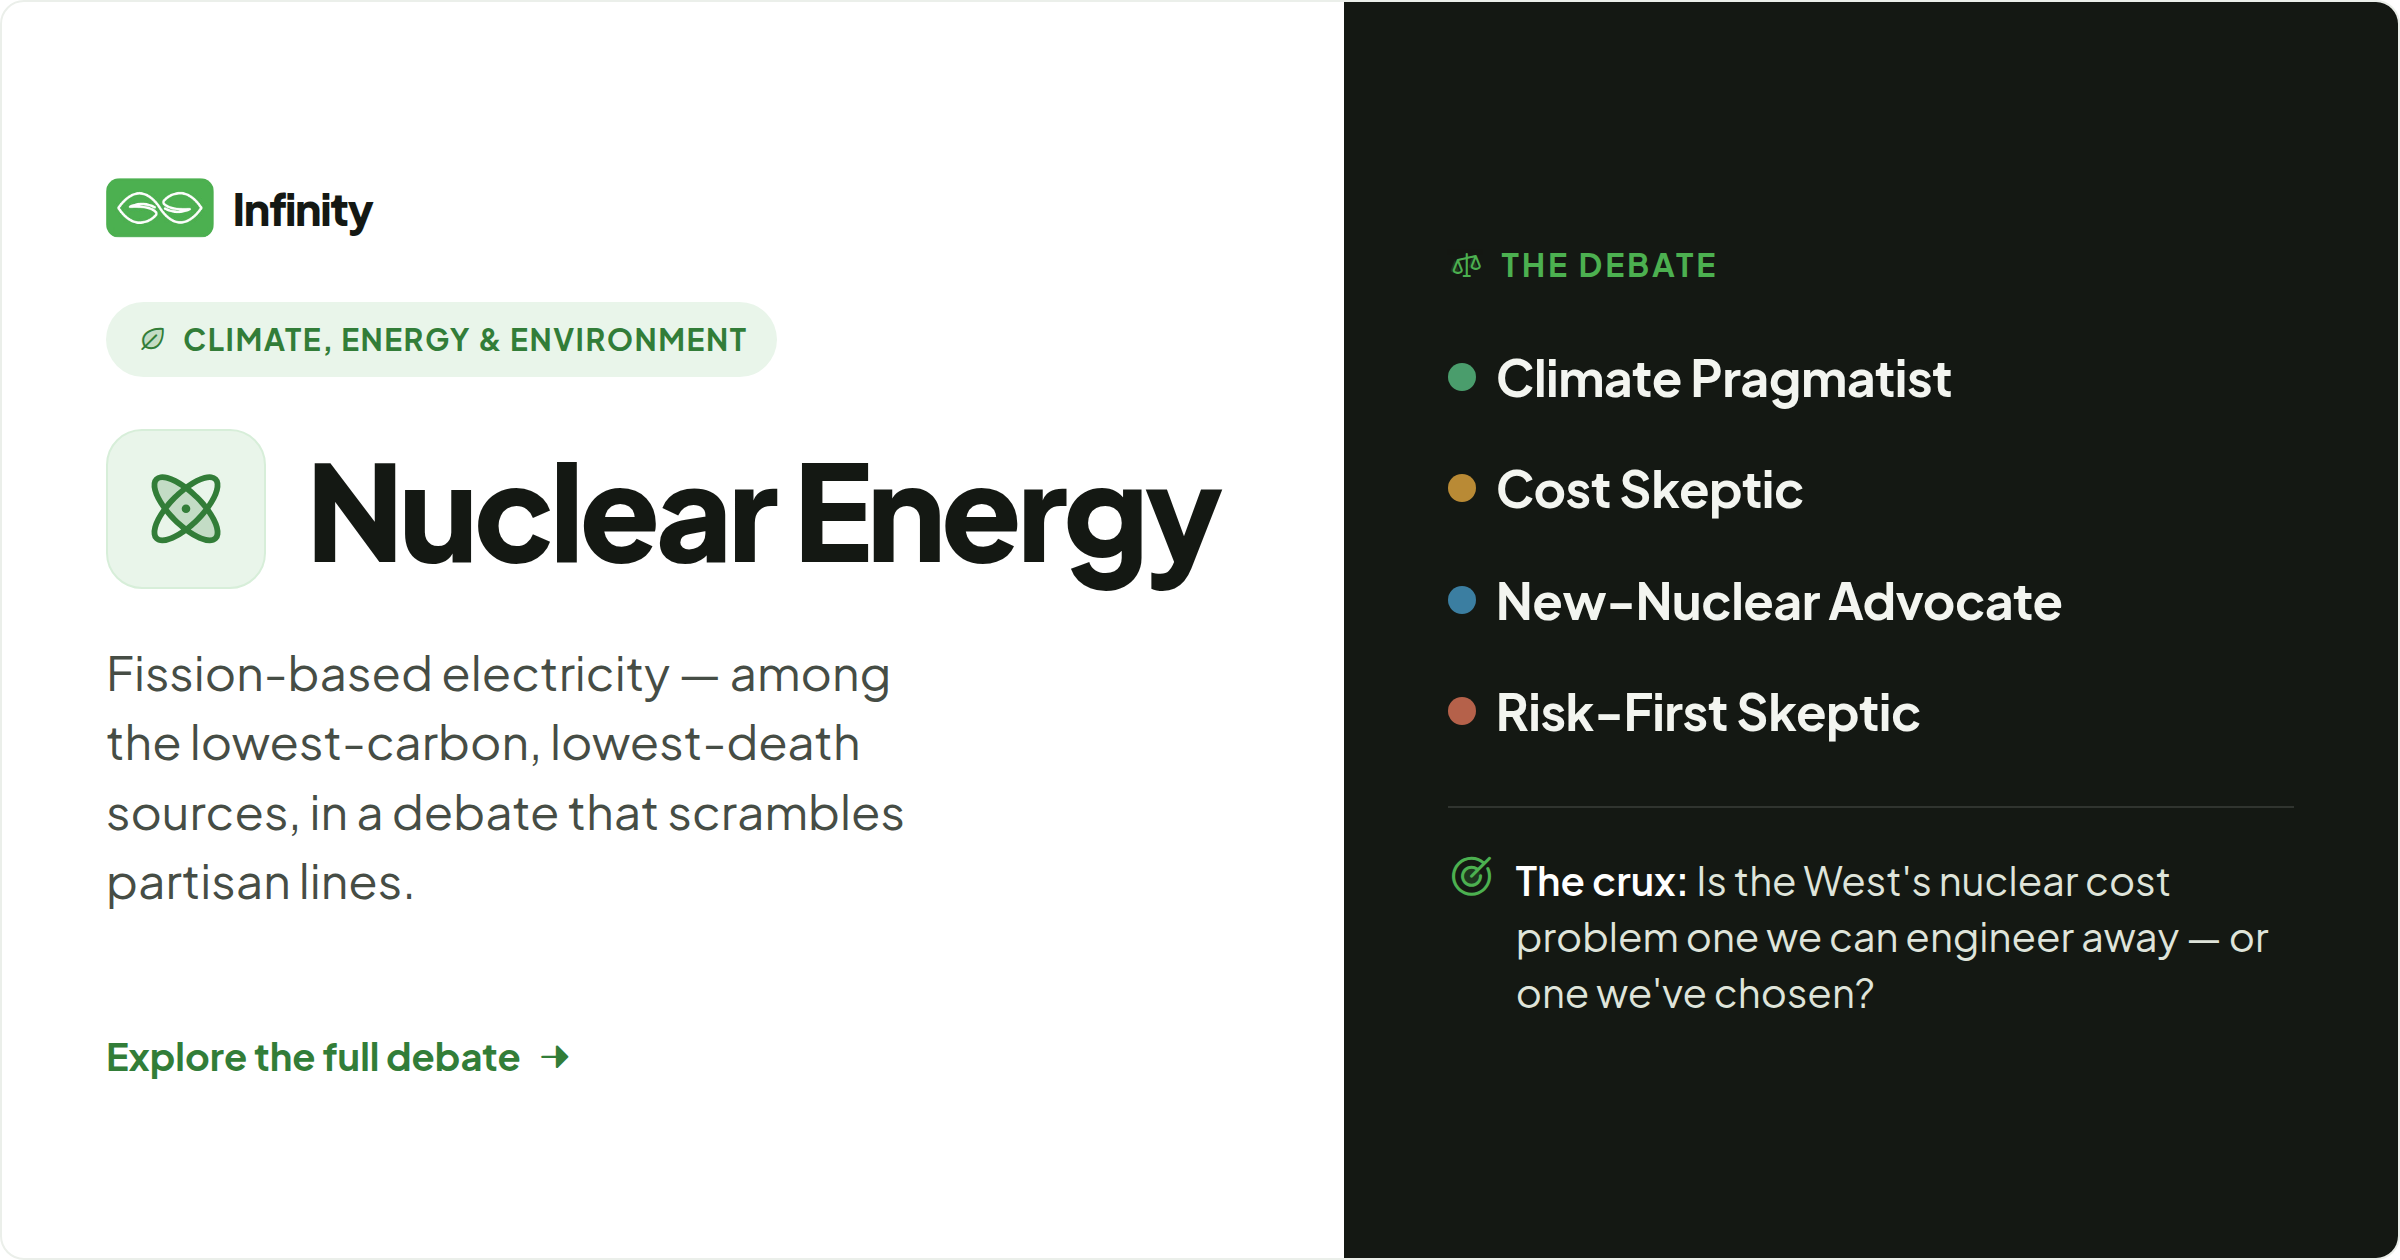
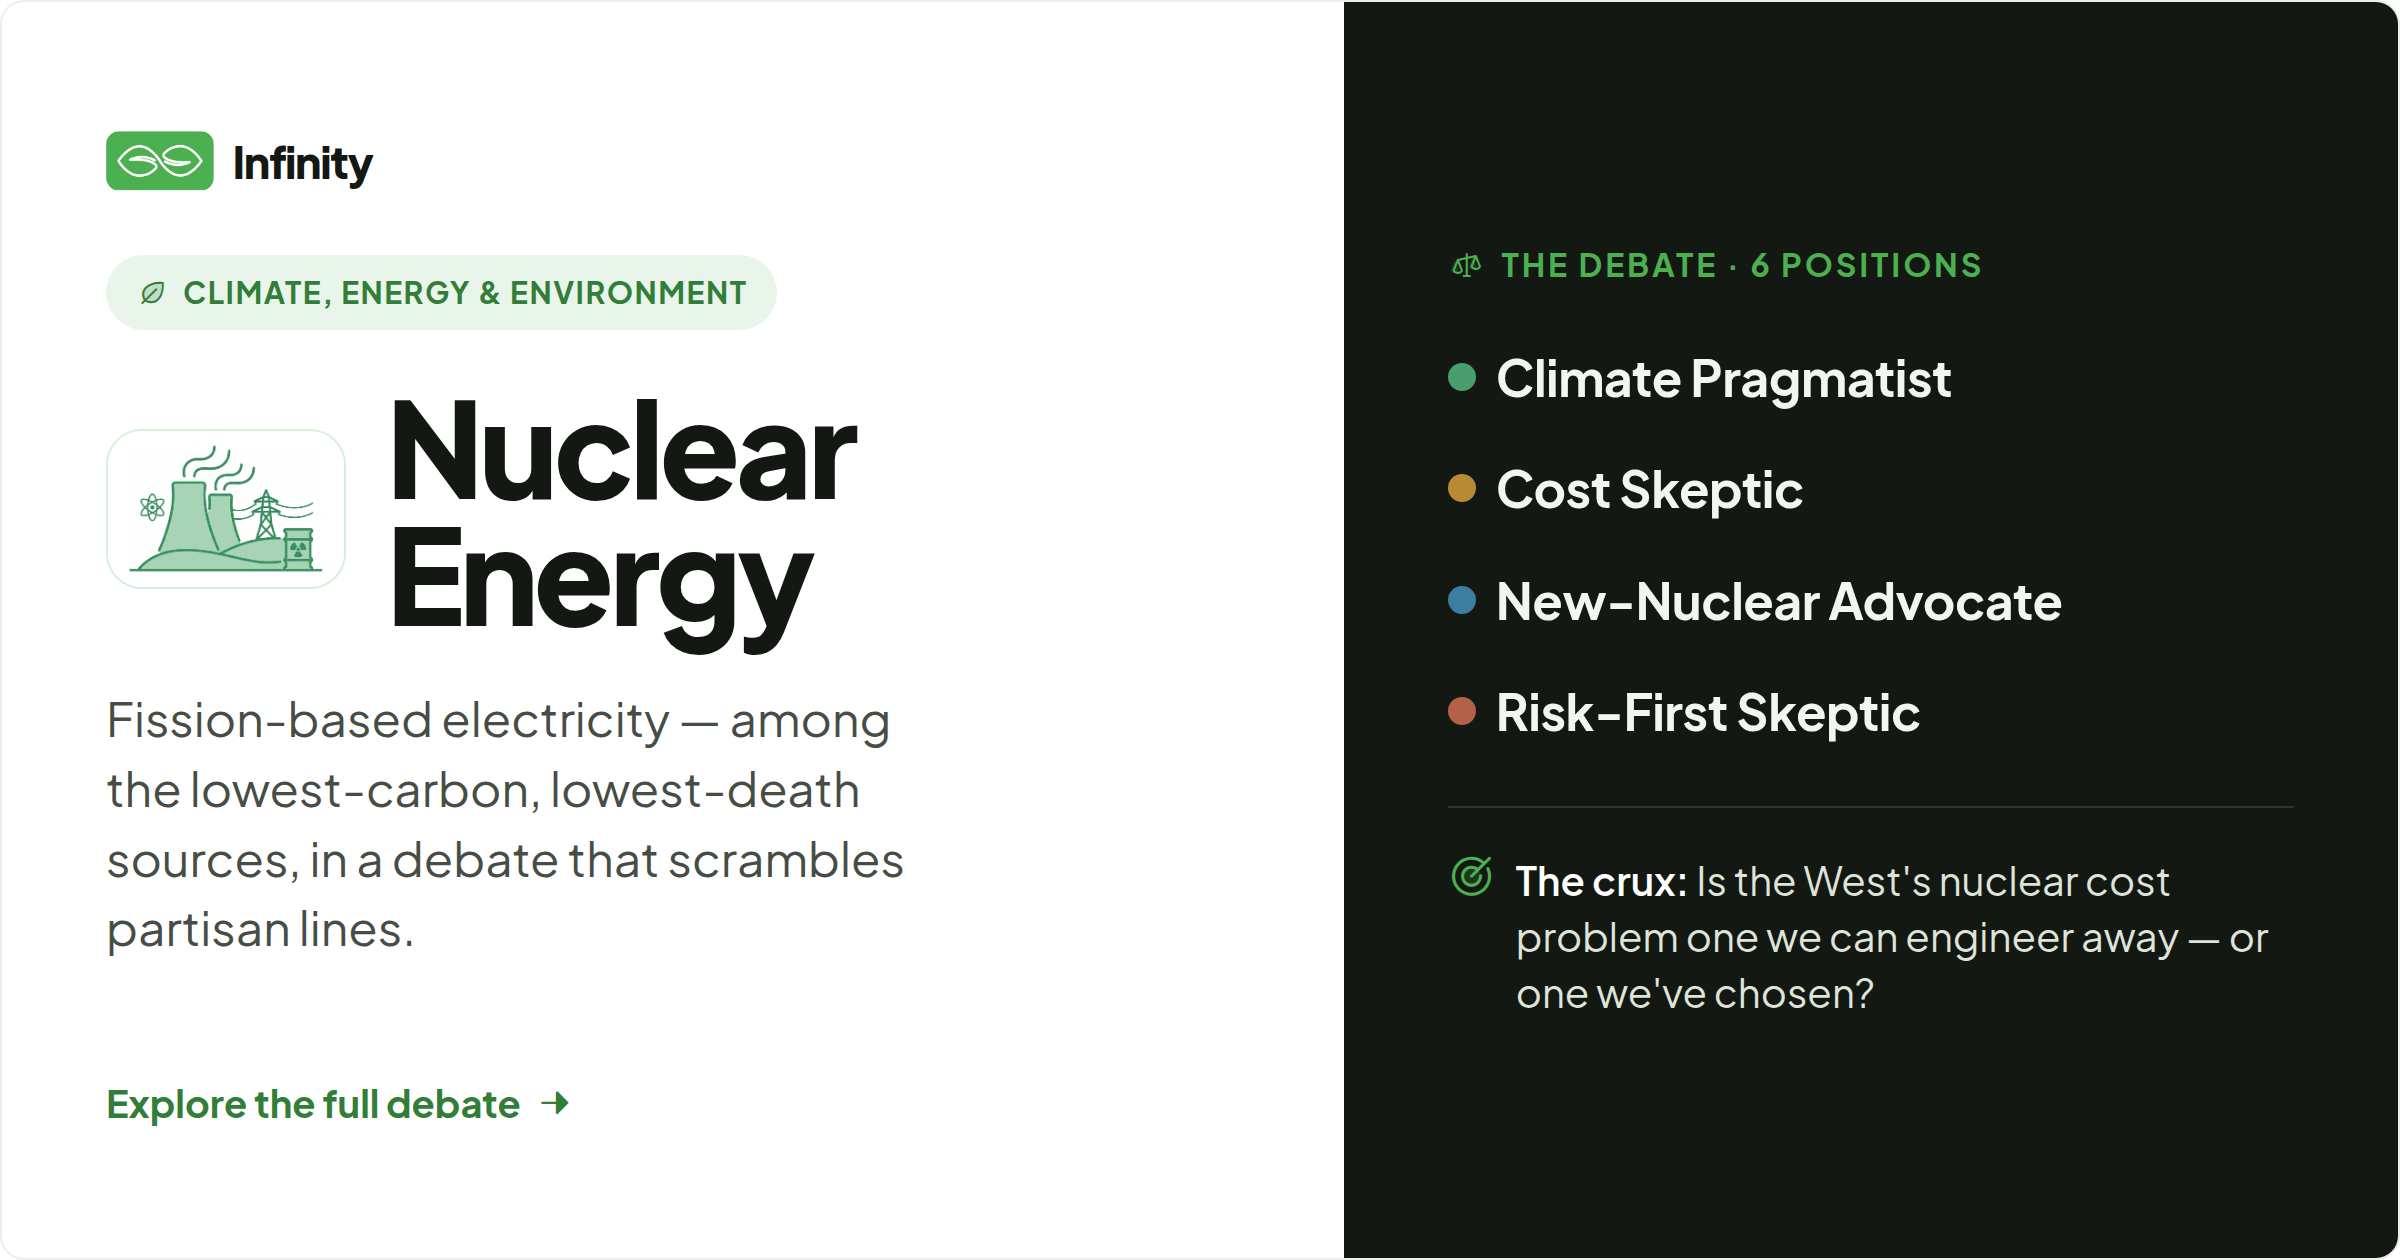
Social-card review: art tile, honest position count, portrait footer
Review pass over the share cards after the poster work, applying the
same conventions:

- Title row leads with the bespoke primary_art illustration (3:2,
  cover-cropped) when the topic has one, falling back to the Phosphor
  tile — matches the detail page and poster hero.
- The dark panel header now reports the debate's full size ("The debate
  · 6 positions") when the card shows only the leading positions; the
  view already passed positions_total but the template never used it.
- The portrait card renders its brand/URL footer row: the CSS existed
  but show_url was never passed, leaving a dead zone above the dark
  panel. The row is now CSS-gated (.pt only) instead of context-gated.
- The URL-row logo keeps its natural 168x93 aspect instead of being
  forced square (same scrunch bug the poster had).
- New render_social management command replaces the undocumented manual
  Chrome invocation (og at 2x to static/img/social/<slug>.png, plus
  optional sq/pt variants); og PNG regenerated with the new card.
- Both render commands survive an --out outside the repo.

diff --git a/templates/topics/share.html b/templates/topics/share.html
@@ -36,9 +36,13 @@
   .cat{display:inline-flex;align-items:center;gap:7px;font-weight:700;text-transform:uppercase;letter-spacing:.05em;color:var(--green-700);background:var(--green-tint);border-radius:9999px;align-self:flex-start}
   .ttlrow{display:flex;align-items:center;gap:var(--gap)}
   .ticon{flex:none;border-radius:var(--tir);background:var(--green-tint);border:1px solid var(--green-tint-strong);display:flex;align-items:center;justify-content:center;color:var(--green-700)}
+  .card .ticon.tart{width:auto;aspect-ratio:3/2;padding:0;overflow:hidden}
+  .card .ticon.tart img{width:100%;height:100%;object-fit:cover;display:block}
   .ttl{font-weight:800;letter-spacing:-.035em;line-height:.96;color:var(--ink-900);margin:0}
   .summary{color:var(--ink-600);line-height:1.45;text-wrap:pretty}
-  .url{margin-top:auto;display:flex;align-items:center;justify-content:space-between;color:var(--ink-400);font-variant-numeric:tabular-nums}
+  /* brand/URL footer row — only the portrait card has the height for it */
+  .url{display:none;margin-top:auto;align-items:center;justify-content:space-between;color:var(--ink-400);font-variant-numeric:tabular-nums}
+  .pt .url{display:flex}
   .url .ub{display:flex;align-items:center;gap:7px;color:var(--ink-500);font-weight:600}
   .dk{background:var(--ink-900);color:#fff;display:flex;flex-direction:column;padding:var(--pad)}
   .dk .dlabel{font-weight:700;text-transform:uppercase;letter-spacing:.09em;color:var(--green-500);display:flex;align-items:center;gap:8px}
@@ -67,7 +71,7 @@
   .pt .lt{flex:0 0 58%} .pt .brand{font-size:24px}.pt .brand .mark{height:34px;width:auto}.pt .brand .tag{font-size:16px}
   .pt .cat{font-size:16px;padding:9px 18px;margin-top:40px} .pt .ttlrow{margin-top:34px}
   .pt .ticon{width:104px;height:104px}.pt .ticon i{font-size:60px} .pt .ttl{font-size:92px}
-  .pt .summary{font-size:30px;margin-top:32px;max-width:24ch} .pt .url{font-size:17px}.pt .url .ub .mark{width:24px;height:24px;border-radius:6px}
+  .pt .summary{font-size:30px;margin-top:32px;max-width:24ch} .pt .url{font-size:17px}.pt .url .ub .mark{height:24px;width:auto;border-radius:6px}
   .pt .dk{flex:0 0 42%;--pgap:20px;--pmt:30px} .pt .dlabel{font-size:17px}
   .pt .pos .pd{width:16px;height:16px}.pt .pos .pnm{font-size:30px}
   .pt .hook{margin-top:34px;padding-top:26px}.pt .hook i{font-size:32px}.pt .hook .ct{font-size:28px}

diff --git a/templates/topics/components/_share_card.html b/templates/topics/components/_share_card.html
@@ -1,14 +1,18 @@
-{% load static %}{% comment %}Inner share-card content. Expects topic, cc, positions, crux; optional show_url.{% endcomment %}
+{% load static %}{% comment %}Inner share-card content. Expects topic, cc, positions, positions_total, crux.{% endcomment %}
 <div class="lt">
   <div class="brand"><img class="mark" src="{% static 'img/infinity-mark.png' %}" alt="" /><span class="wm">Infinity</span></div>
   {% if cc %}<span class="cat"><i class="ph-duotone ph-{{ cc.icon|default:'squares-four' }}"></i>{{ cc.name }}</span>{% endif %}
-  <div class="ttlrow"><span class="ticon"><i class="ph-duotone ph-{{ topic.icon|default:'circle' }}"></i></span><h1 class="ttl">{{ topic.title }}</h1></div>
+  <div class="ttlrow">
+    {% if topic.primary_art %}<span class="ticon tart"><img src="{% static topic.primary_art %}" alt="" /></span>
+    {% else %}<span class="ticon"><i class="ph-duotone ph-{{ topic.icon|default:'circle' }}"></i></span>{% endif %}
+    <h1 class="ttl">{{ topic.title }}</h1>
+  </div>
   <p class="summary">{{ topic.summary }}</p>
   <div class="cta">Explore the full debate<i class="ph-fill ph-arrow-right"></i></div>
-  {% if show_url %}<div class="url"><span class="ub"><img class="mark" src="{% static 'img/infinity-mark.png' %}" alt="" />infinity</span><span>/ {{ topic.slug }}</span></div>{% endif %}
+  <div class="url"><span class="ub"><img class="mark" src="{% static 'img/infinity-mark.png' %}" alt="" />infinity</span><span>/ {{ topic.slug }}</span></div>
 </div>
 <div class="dk">
-  <div class="dlabel"><i class="ph-duotone ph-scales"></i>The debate</div>
+  <div class="dlabel"><i class="ph-duotone ph-scales"></i>The debate{% if positions_total > positions|length %} · {{ positions_total }} positions{% endif %}</div>
   <div class="poss">
     {% for p in positions %}
     <div class="pos"><span class="pd" style="background:{{ p.color_var }}"></span><span class="pnm">{{ p.name }}</span></div>

diff --git a/topics/management/commands/render_social.py b/topics/management/commands/render_social.py
@@ -1,0 +1,131 @@
+"""Capture topic social cards to PNG with headless Chrome — the committed
+assets behind ``Topic.social_card`` / ``og:image``. Replaces the manual
+chrome-screenshot invocation the first card was made with, and mirrors
+``render_poster``'s shape (running dev server + Chrome on PATH required).
+
+The OG card (1200x630) is what link unfurls show and is captured at 2x
+(2400x1260), matching the existing committed asset. ``--formats`` also takes
+the square (sq, 1080x1080) and portrait/story (pt, 1080x1350) variants; those
+save alongside as <slug>-<fmt>.png and are for manual posting, not og:image.
+
+  manage.py render_social --slug nuclear-energy            # -> static/img/social/nuclear-energy.png
+  manage.py render_social --all --formats og,sq,pt
+"""
+
+import shutil
+import subprocess
+from pathlib import Path
+
+from django.conf import settings
+from django.core.management.base import BaseCommand, CommandError
+from django.db.models import Count
+
+from topics.models import Topic
+
+CHROME_CANDIDATES = [
+    "google-chrome",
+    "google-chrome-stable",
+    "chromium",
+    "chromium-browser",
+]
+
+# width, height, device-scale-factor; og stays 2x to match the shipped asset.
+FORMATS = {
+    "og": (1200, 630, 2),
+    "sq": (1080, 1080, 2),
+    "pt": (1080, 1350, 2),
+}
+
+
+def _pretty(path):
+    """Repo-relative when inside BASE_DIR (the normal case), absolute otherwise."""
+    try:
+        return path.relative_to(settings.BASE_DIR)
+    except ValueError:
+        return path
+
+
+class Command(BaseCommand):
+    help = "Capture topic social-share cards to PNGs via headless Chrome."
+
+    def add_arguments(self, parser):
+        parser.add_argument("--slug", help="Capture a single topic by slug.")
+        parser.add_argument(
+            "--all",
+            action="store_true",
+            help="Capture every published topic that has sections.",
+        )
+        parser.add_argument(
+            "--formats",
+            default="og",
+            help="Comma-separated card formats: og,sq,pt (default: og).",
+        )
+        parser.add_argument(
+            "--base-url",
+            default="http://localhost:8000",
+            help="Origin of a running dev server (default: %(default)s).",
+        )
+        parser.add_argument(
+            "--out",
+            default=None,
+            help="Output directory (default: static/img/social/).",
+        )
+
+    def handle(self, *args, **opts):
+        chrome = next(
+            (path for c in CHROME_CANDIDATES if (path := shutil.which(c))), None
+        )
+        if not chrome:
+            raise CommandError(f"No Chrome binary found (tried {CHROME_CANDIDATES}).")
+
+        formats = [f.strip() for f in opts["formats"].split(",") if f.strip()]
+        unknown = [f for f in formats if f not in FORMATS]
+        if unknown:
+            raise CommandError(
+                f"Unknown format(s) {unknown}; pick from {list(FORMATS)}."
+            )
+
+        if opts["slug"]:
+            topics = list(Topic.objects.filter(slug=opts["slug"]))
+            if not topics:
+                raise CommandError(f"No topic with slug {opts['slug']!r}.")
+        elif opts["all"]:
+            topics = list(
+                Topic.published.annotate(n=Count("sections"))
+                .filter(n__gt=0)
+                .order_by("slug")
+            )
+            if not topics:
+                raise CommandError("No published topics with sections.")
+        else:
+            raise CommandError("Pass --slug <slug> or --all.")
+
+        out_dir = Path(opts["out"] or settings.BASE_DIR / "static" / "img" / "social")
+        out_dir.mkdir(parents=True, exist_ok=True)
+        base = opts["base_url"].rstrip("/")
+
+        for topic in topics:
+            for fmt in formats:
+                w, h, dsf = FORMATS[fmt]
+                # The og PNG is the Topic.social_card asset and keeps the bare
+                # <slug>.png name; other formats are suffixed.
+                name = f"{topic.slug}.png" if fmt == "og" else f"{topic.slug}-{fmt}.png"
+                png = out_dir / name
+                subprocess.run(
+                    [
+                        chrome,
+                        "--headless=new",
+                        "--disable-gpu",
+                        f"--window-size={w},{h}",
+                        f"--force-device-scale-factor={dsf}",
+                        "--hide-scrollbars",
+                        "--virtual-time-budget=10000",
+                        f"--screenshot={png}",
+                        f"{base}/{topic.slug}/share/?render={fmt}",
+                    ],
+                    check=True,
+                    capture_output=True,
+                    timeout=120,
+                )
+                self.stdout.write(f"  {topic.slug} [{fmt}] -> {_pretty(png)}")
+        self.stdout.write(self.style.SUCCESS(f"{len(topics)} topic(s) captured."))

diff --git a/topics/management/commands/render_poster.py b/topics/management/commands/render_poster.py
@@ -126,9 +126,11 @@ class Command(BaseCommand):
                 capture_output=True,
                 timeout=120,
             )
-            self.stdout.write(
-                f"  {topic.slug}: fits ({-over}px slack) -> {pdf.relative_to(settings.BASE_DIR)}"
-            )
+            try:
+                shown = pdf.relative_to(settings.BASE_DIR)
+            except ValueError:
+                shown = pdf
+            self.stdout.write(f"  {topic.slug}: fits ({-over}px slack) -> {shown}")
 
         if overflowed:
             raise CommandError(
